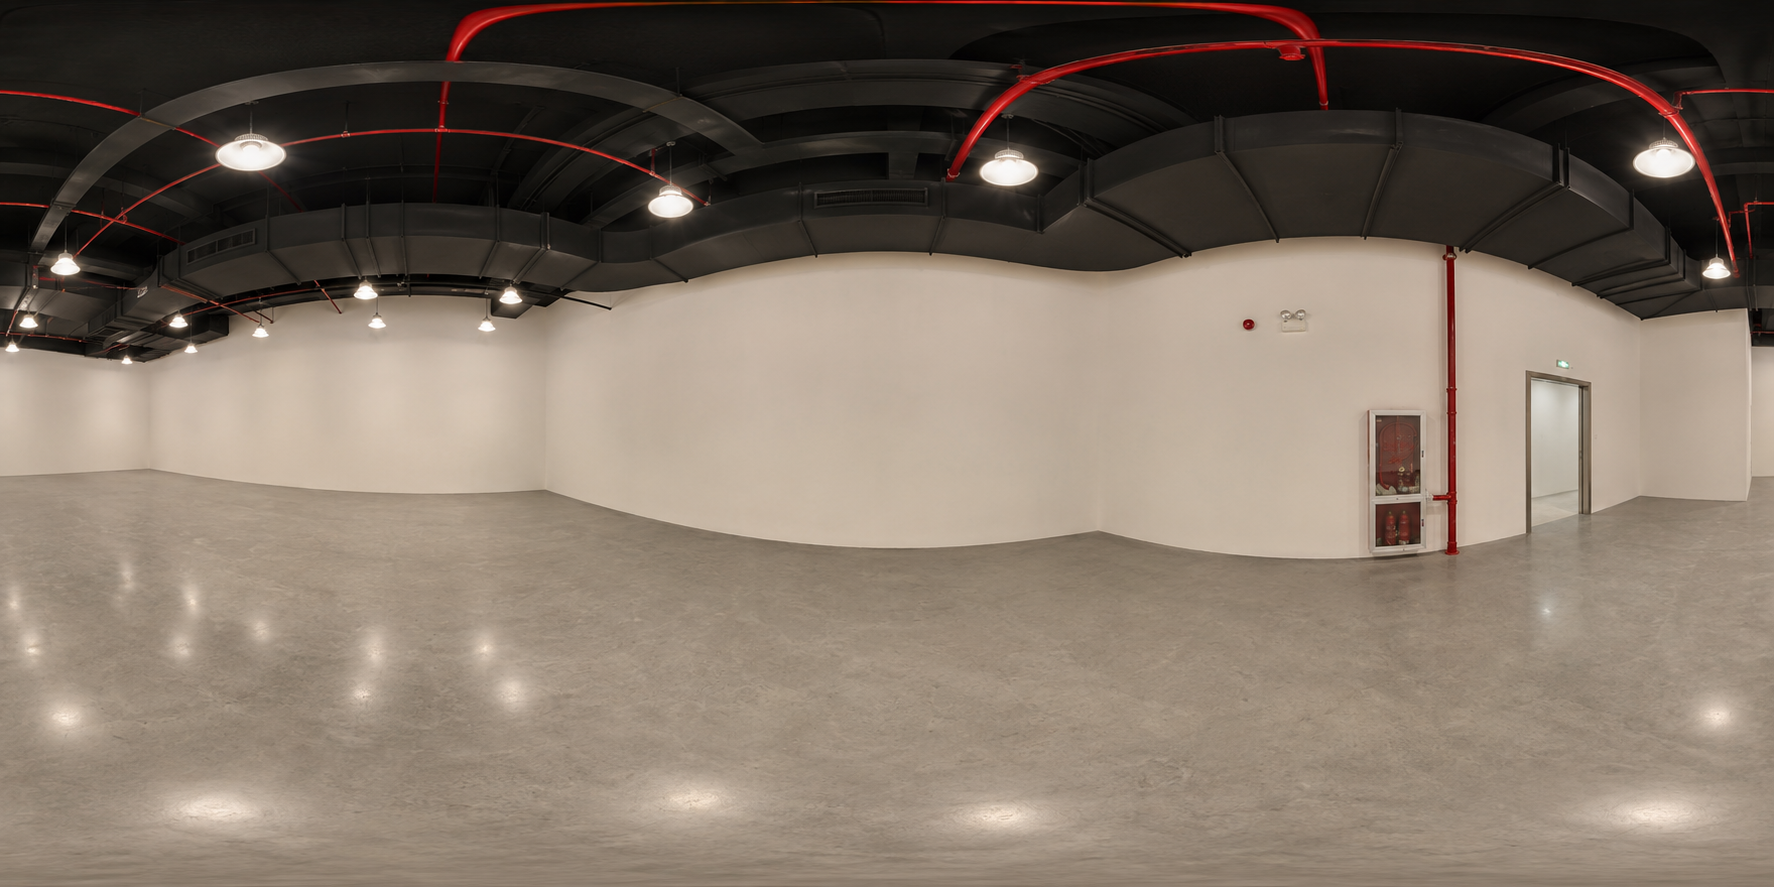
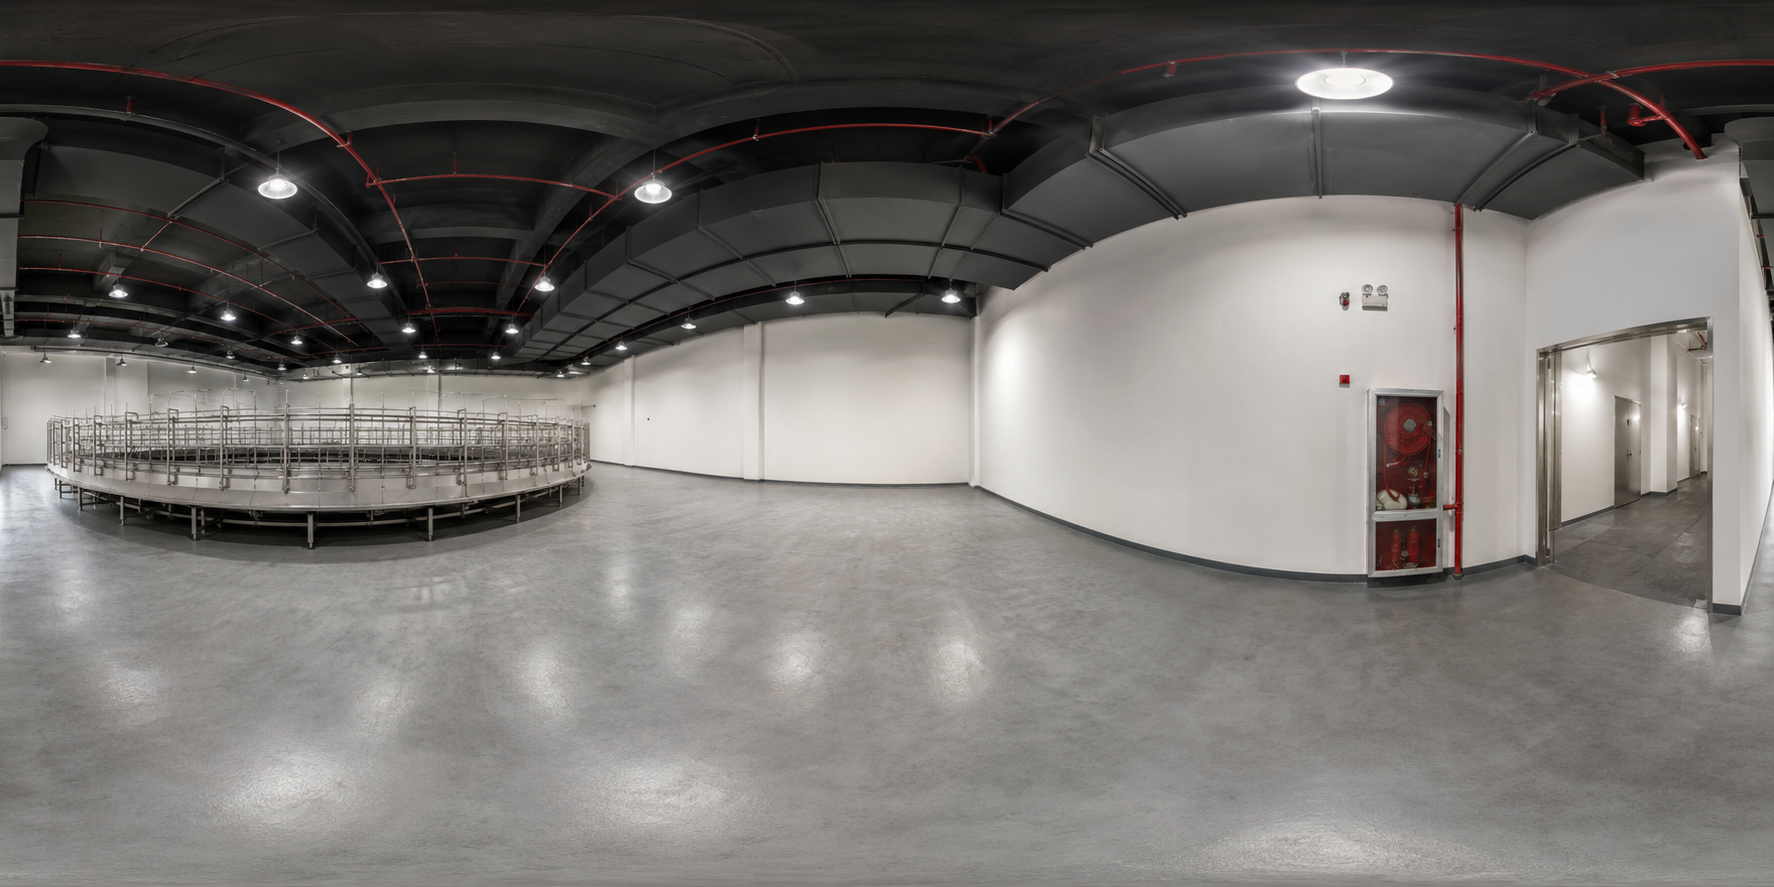
feat: update corrected A-E panorama viewpoints

diff --git a/scenes.js b/scenes.js
@@ -1,11 +1,11 @@
 const sceneConfig = {
-  default: { firstScene: 'foyer', sceneFadeDuration: 650, autoLoad: true, showControls: true },
+  default: { firstScene: 'e-foyer', sceneFadeDuration: 650, autoLoad: true, showControls: true },
   scenes: {
-    foyer: { title: '门厅 / D-E 区', type: 'equirectangular', panorama: 'assets/panoramas/foyer-de-empty.png', hfov: 105, yaw: 0, pitch: 0 },
+    'e-foyer': { title: 'E区门厅（2.3m）', type: 'equirectangular', panorama: 'assets/panoramas/e-foyer-empty.png', hfov: 105, yaw: 0, pitch: 0 },
     'a-wall': { title: 'A墙（6.9m）', type: 'equirectangular', panorama: 'assets/panoramas/a-wall-empty.png', hfov: 105, yaw: 0, pitch: 0 },
     'b-wall': { title: 'B墙（8.4m）', type: 'equirectangular', panorama: 'assets/panoramas/b-wall-empty.png', hfov: 105, yaw: 0, pitch: 0 },
     'c-wall': { title: 'C墙（8.06m）', type: 'equirectangular', panorama: 'assets/panoramas/c-wall-empty.png', hfov: 105, yaw: 0, pitch: 0 },
-    central: { title: '中央核心区（24位转盘预留）', type: 'equirectangular', panorama: 'assets/panoramas/central-empty.png', hfov: 105, yaw: 0, pitch: 0 }
+    'd-office': { title: 'D区办公区（4.9m）', type: 'equirectangular', panorama: 'assets/panoramas/d-office-empty.png', hfov: 105, yaw: 0, pitch: 0 }
   }
 };
 
@@ -22,4 +22,4 @@ viewer.on('scenechange', (sceneId) => {
   buttons.forEach((button) => button.setAttribute('aria-current', String(button.dataset.scene === sceneId)));
 });
 
-selectScene('foyer');
+selectScene('e-foyer');

diff --git a/index.html b/index.html
@@ -15,11 +15,11 @@
   <body>
     <div id="panorama"></div>
     <nav class="scene-nav" aria-label="展厅点位切换">
-      <button type="button" data-scene="foyer">门厅 / D-E</button>
+      <button type="button" data-scene="e-foyer">E区门厅</button>
       <button type="button" data-scene="a-wall">A墙</button>
       <button type="button" data-scene="b-wall">B墙</button>
       <button type="button" data-scene="c-wall">C墙</button>
-      <button type="button" data-scene="central">中央核心区</button>
+      <button type="button" data-scene="d-office">D区办公区</button>
     </nav>
     <script src="https://cdn.jsdelivr.net/npm/pannellum@2.5.6/build/pannellum.js"></script>
     <script src="scenes.js"></script>
